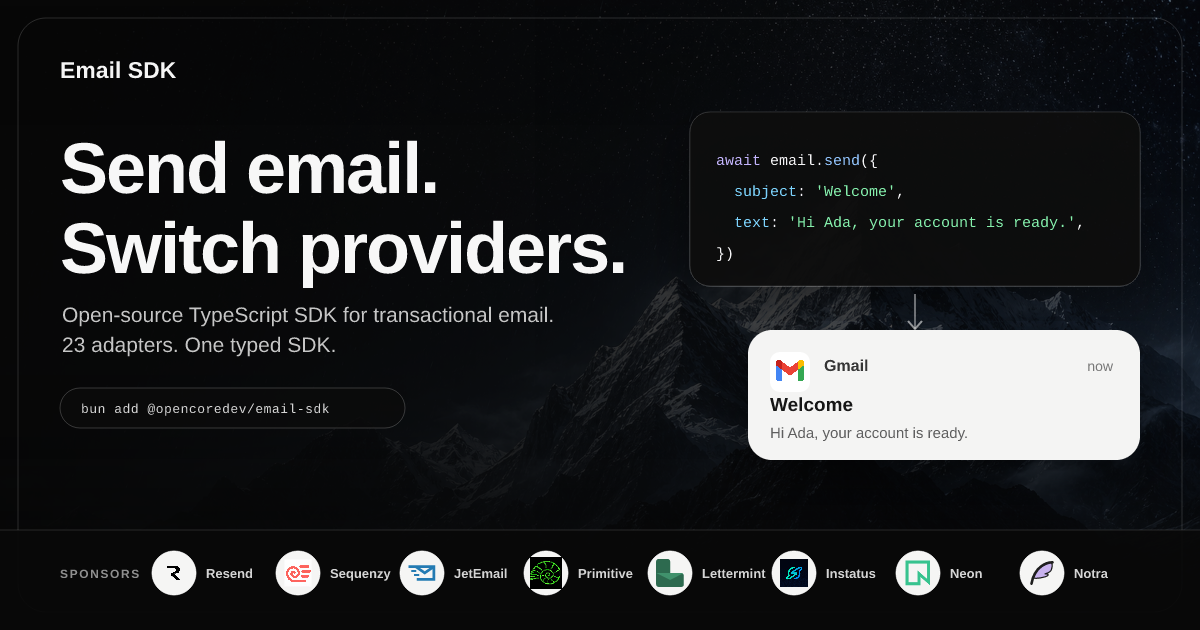
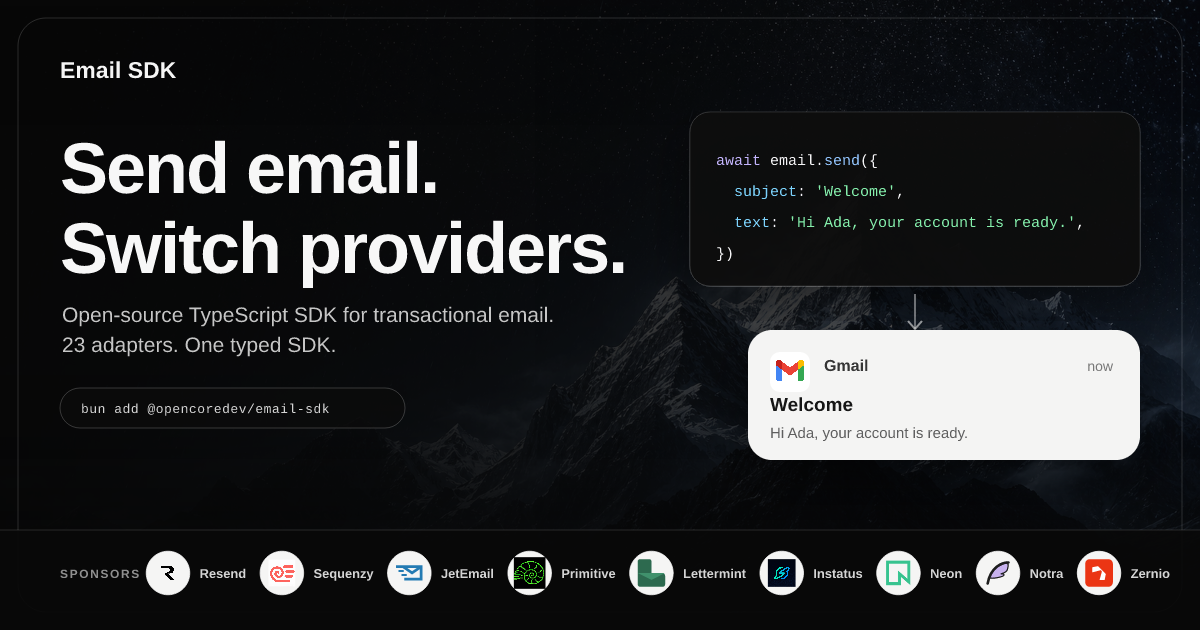
docs(site): add Zernio as a sponsor (#181)
Add the Zernio brand mark to the landing page sponsor grid, the OG image and the README top tier. Measure the OG sponsor labels with the real Liberation Sans Bold advance widths so the row scales to fit instead of overflowing.

Changed region(s): [[0.1233, 0.8746, 0.9867, 0.9651]]

diff --git a/apps/fumadocs/scripts/og/font-metrics.ts b/apps/fumadocs/scripts/og/font-metrics.ts
@@ -1,0 +1,102 @@
+// Real glyph advance widths from the TrueType fonts the OG image renders with.
+//
+// The sponsor row has to know how wide a label will be before resvg draws it.
+// A per-character estimate cannot do that: Liberation Sans Bold puts "W" at
+// 12.27px and "i" at 3.61px for the same 13px size, so an average either
+// overflows the canvas on wide names or wastes space on narrow ones. Reading
+// the font's own hmtx table gives the exact width the renderer will use.
+import { readFileSync } from "node:fs";
+
+type FontMetrics = {
+  /** Width of the text at the given font size, in px. */
+  measure: (text: string, fontSize: number) => number;
+};
+
+function readTables(view: DataView, bytes: Uint8Array): Record<string, number> {
+  const tableCount = view.getUint16(4);
+  const tables: Record<string, number> = {};
+  for (let index = 0; index < tableCount; index++) {
+    const record = 12 + index * 16;
+    const tag = String.fromCharCode(
+      bytes[record]!,
+      bytes[record + 1]!,
+      bytes[record + 2]!,
+      bytes[record + 3]!,
+    );
+    tables[tag] = view.getUint32(record + 8);
+  }
+  return tables;
+}
+
+/** Offset of the Unicode "cmap" subtable, which must be format 4. */
+function findUnicodeCmap(view: DataView, cmap: number): number {
+  const subtableCount = view.getUint16(cmap + 2);
+  let best = 0;
+  for (let index = 0; index < subtableCount; index++) {
+    const record = cmap + 4 + index * 8;
+    const platform = view.getUint16(record);
+    const encoding = view.getUint16(record + 2);
+    const isUnicode = platform === 0 || (platform === 3 && (encoding === 1 || encoding === 10));
+    if (isUnicode) best = cmap + view.getUint32(record + 4);
+  }
+  if (!best) throw new Error("font has no Unicode cmap subtable");
+  const format = view.getUint16(best);
+  if (format !== 4) throw new Error(`unsupported cmap format ${format}`);
+  return best;
+}
+
+export function loadFontMetrics(fontPath: string): FontMetrics {
+  const bytes = readFileSync(fontPath);
+  const view = new DataView(bytes.buffer, bytes.byteOffset, bytes.byteLength);
+  const tables = readTables(view, bytes);
+  const head = tables.head;
+  const hhea = tables.hhea;
+  const hmtx = tables.hmtx;
+  const cmap = tables.cmap;
+  if (!head || !hhea || !hmtx || !cmap) throw new Error(`font is missing tables: ${fontPath}`);
+
+  const unitsPerEm = view.getUint16(head + 18);
+  const hMetricCount = view.getUint16(hhea + 34);
+  const subtable = findUnicodeCmap(view, cmap);
+
+  const segmentCount = view.getUint16(subtable + 6) / 2;
+  const endCodes = subtable + 14;
+  const startCodes = endCodes + segmentCount * 2 + 2;
+  const deltas = startCodes + segmentCount * 2;
+  const rangeOffsets = deltas + segmentCount * 2;
+
+  function glyphId(codePoint: number): number {
+    for (let index = 0; index < segmentCount; index++) {
+      if (view.getUint16(endCodes + index * 2) < codePoint) continue;
+      const start = view.getUint16(startCodes + index * 2);
+      if (start > codePoint) return 0;
+      const delta = view.getInt16(deltas + index * 2);
+      const rangeOffset = view.getUint16(rangeOffsets + index * 2);
+      if (rangeOffset === 0) return (codePoint + delta) & 0xffff;
+      const glyph = view.getUint16(
+        rangeOffsets + index * 2 + rangeOffset + (codePoint - start) * 2,
+      );
+      return glyph === 0 ? 0 : (glyph + delta) & 0xffff;
+    }
+    return 0;
+  }
+
+  const advances = new Map<number, number>();
+  function advance(codePoint: number): number {
+    const cached = advances.get(codePoint);
+    if (cached !== undefined) return cached;
+    // Glyphs past the last hMetric all reuse that metric's advance.
+    const metric = Math.min(glyphId(codePoint), hMetricCount - 1);
+    const width = view.getUint16(hmtx! + metric * 4) / unitsPerEm;
+    advances.set(codePoint, width);
+    return width;
+  }
+
+  return {
+    measure(text, fontSize) {
+      let total = 0;
+      for (const character of text) total += advance(character.codePointAt(0)!);
+      return total * fontSize;
+    },
+  };
+}

diff --git a/apps/fumadocs/scripts/og/sponsor-row.ts b/apps/fumadocs/scripts/og/sponsor-row.ts
@@ -1,0 +1,89 @@
+// Geometry for the sponsor row at the foot of the OG image. It sits between
+// the "SPONSORS" label and the card border, so it cannot use a fixed step:
+// every new sponsor would push the last name off the canvas. Each slot is
+// measured from its own name, and the whole row scales down until it fits,
+// which keeps the logo, the label and the spacing in proportion.
+//
+// The layout lives apart from generate-og-image.ts so the fit can be tested
+// without rendering the image.
+import { join } from "node:path";
+
+import { loadFontMetrics } from "./font-metrics";
+
+export const sponsorRowGeometry = {
+  startX: 168,
+  rightEdge: 1170,
+  cy: 573,
+  radius: 22,
+  labelOffset: 32,
+  fontSize: 13,
+  /** Blank space kept between a label and the next logo. */
+  minClearance: 14,
+  /** Below this the labels get too small to read, so the build must fail. */
+  minScale: 0.7,
+} as const;
+
+// The row labels are drawn in Liberation Sans Bold. generate-og-image.ts hands
+// this same file to resvg, so the width measured here is the width the renderer
+// draws and the two cannot drift onto different fonts.
+export const sponsorLabelFontFile = join(import.meta.dirname, "fonts/LiberationSans-Bold.ttf");
+
+const labelFont = loadFontMetrics(sponsorLabelFontFile);
+
+export function measureSponsorLabel(
+  name: string,
+  fontSize: number = sponsorRowGeometry.fontSize,
+): number {
+  return labelFont.measure(name, fontSize);
+}
+
+export type SponsorRowSlot = {
+  name: string;
+  /** Centre of the logo circle. */
+  x: number;
+  radius: number;
+  /** Left edge of the label text. */
+  labelX: number;
+  /** Right edge of the label text. */
+  labelEndX: number;
+  fontSize: number;
+};
+
+export function sponsorRowLayout(names: readonly string[]): {
+  scale: number;
+  slots: SponsorRowSlot[];
+} {
+  const { startX, rightEdge, radius, labelOffset, fontSize, minClearance, minScale } =
+    sponsorRowGeometry;
+
+  const labelWidths = names.map((name) => measureSponsorLabel(name));
+  const slotWidths = labelWidths.map((label) => labelOffset + label);
+  const slotsWidth = slotWidths.reduce((total, slot) => total + slot, 0);
+  const gapCount = Math.max(0, names.length - 1);
+  // Widths that scale: the slots plus the part of each gap the logo covers.
+  const scalable = slotsWidth + gapCount * radius;
+  const available = rightEdge - startX - gapCount * minClearance;
+  const scale = Math.min(1, available / scalable);
+  if (scale < minScale) {
+    throw new Error(
+      `[og] sponsor row no longer fits: ${names.length} sponsors need more than ${rightEdge - startX}px`,
+    );
+  }
+
+  let x = startX;
+  const slots = names.map((name, index) => {
+    const previous = slotWidths[index - 1];
+    if (previous !== undefined) x += previous * scale + radius * scale + minClearance;
+    const labelX = x + labelOffset * scale;
+    return {
+      name,
+      x,
+      radius: radius * scale,
+      labelX,
+      labelEndX: labelX + labelWidths[index]! * scale,
+      fontSize: fontSize * scale,
+    };
+  });
+
+  return { scale, slots };
+}

diff --git a/apps/fumadocs/scripts/og/sponsor-row.test.ts b/apps/fumadocs/scripts/og/sponsor-row.test.ts
@@ -1,0 +1,59 @@
+import { describe, expect, test } from "bun:test";
+
+import { sponsors } from "../../src/lib/sponsors";
+import { measureSponsorLabel, sponsorRowGeometry, sponsorRowLayout } from "./sponsor-row";
+
+const names = sponsors.map((sponsor) => sponsor.name);
+
+describe("og sponsor row", () => {
+  test("measures labels with the font the row renders with", () => {
+    // Liberation Sans Bold advances at 13px. A per-character average cannot
+    // tell these apart, which is what let a label overrun its slot before.
+    expect(measureSponsorLabel("W")).toBeCloseTo(12.27, 1);
+    expect(measureSponsorLabel("i")).toBeCloseTo(3.61, 1);
+    expect(measureSponsorLabel("WWWW")).toBeGreaterThan(measureSponsorLabel("iiii") * 3);
+    expect(measureSponsorLabel("Neon", 26)).toBeCloseTo(measureSponsorLabel("Neon") * 2, 5);
+  });
+
+  test("keeps the current sponsor list inside the card border", () => {
+    const { slots } = sponsorRowLayout(names);
+    const last = slots.at(-1)!;
+
+    expect(slots).toHaveLength(sponsors.length);
+    expect(slots[0]!.x).toBe(sponsorRowGeometry.startX);
+    expect(last.labelEndX).toBeLessThanOrEqual(sponsorRowGeometry.rightEdge + 0.001);
+  });
+
+  test("never lets a label run into the next logo", () => {
+    const { slots } = sponsorRowLayout(names);
+
+    for (const [index, slot] of slots.entries()) {
+      const next = slots[index + 1];
+      if (!next) continue;
+      const clearance = next.x - next.radius - slot.labelEndX;
+      expect(clearance).toBeGreaterThanOrEqual(sponsorRowGeometry.minClearance - 0.001);
+    }
+  });
+
+  test("shrinks the row as sponsors are added instead of overflowing", () => {
+    const short = sponsorRowLayout(names.slice(0, 4));
+    const long = sponsorRowLayout([...names, "Widework"]);
+
+    expect(short.scale).toBe(1);
+    expect(long.scale).toBeLessThan(1);
+    expect(long.slots.at(-1)!.labelEndX).toBeLessThanOrEqual(sponsorRowGeometry.rightEdge + 0.001);
+  });
+
+  test("holds the fit for wide-glyph names, not just average ones", () => {
+    const wide = Array.from({ length: 8 }, () => "WWWWWWWW");
+    const { slots } = sponsorRowLayout(wide);
+
+    expect(slots.at(-1)!.labelEndX).toBeLessThanOrEqual(sponsorRowGeometry.rightEdge + 0.001);
+  });
+
+  test("fails the build rather than rendering unreadable labels", () => {
+    const tooMany = Array.from({ length: 24 }, (_, index) => `Sponsor ${index}`);
+
+    expect(() => sponsorRowLayout(tooMany)).toThrow(/sponsor row no longer fits/);
+  });
+});

diff --git a/apps/fumadocs/scripts/og/generate-og-image.ts b/apps/fumadocs/scripts/og/generate-og-image.ts
@@ -11,6 +11,7 @@ import { Resvg } from "@resvg/resvg-js";
 
 import { providers } from "../../src/lib/providers";
 import { sponsors } from "../../src/lib/sponsors";
+import { sponsorLabelFontFile, sponsorRowGeometry, sponsorRowLayout } from "./sponsor-row";
 
 const ogDir = import.meta.dirname;
 const publicDir = join(ogDir, "../../public");
@@ -119,20 +120,19 @@ const sponsorLogoSizes: Record<string, number> = {
 };
 
 function sponsorRowSvg(): string {
-  const startX = 174;
-  const step = 124;
-  const cy = 573;
+  const { cy } = sponsorRowGeometry;
+  const { scale, slots } = sponsorRowLayout(sponsors.map((sponsor) => sponsor.name));
 
-  return sponsors
-    .map((sponsor, index) => {
-      const x = startX + index * step;
-      const size = sponsorLogoSizes[sponsor.name] ?? 28;
+  return slots
+    .map((slot, index) => {
+      const sponsor = sponsors[index]!;
+      const size = (sponsorLogoSizes[sponsor.name] ?? 28) * scale;
       const logo = toDataUri(join(publicDir, sponsor.logo));
       return `
         <g>
-          <circle cx="${x}" cy="${cy}" r="22" fill="#f5f5f4" stroke="#ffffff" stroke-opacity="0.72"/>
-          <image href="${logo}" x="${x - size / 2}" y="${cy - size / 2}" width="${size}" height="${size}" preserveAspectRatio="xMidYMid meet"/>
-          <text x="${x + 32}" y="${cy + 5}" font-family="Liberation Sans" font-size="13" font-weight="bold" fill="#d4d4d4">${escapeXml(sponsor.name)}</text>
+          <circle cx="${slot.x}" cy="${cy}" r="${slot.radius}" fill="#f5f5f4" stroke="#ffffff" stroke-opacity="0.72"/>
+          <image href="${logo}" x="${slot.x - size / 2}" y="${cy - size / 2}" width="${size}" height="${size}" preserveAspectRatio="xMidYMid meet"/>
+          <text x="${slot.labelX}" y="${cy + 5}" font-family="Liberation Sans" font-size="${slot.fontSize}" font-weight="bold" fill="#d4d4d4">${escapeXml(sponsor.name)}</text>
         </g>`;
     })
     .join("\n");
@@ -189,7 +189,7 @@ function render(svg: string): Buffer {
     font: {
       fontFiles: [
         join(ogDir, "fonts/LiberationSans-Regular.ttf"),
-        join(ogDir, "fonts/LiberationSans-Bold.ttf"),
+        sponsorLabelFontFile,
         join(ogDir, "fonts/LiberationMono-Regular.ttf"),
         join(ogDir, "fonts/LiberationMono-Bold.ttf"),
       ],

diff --git a/apps/fumadocs/src/lib/sponsors.test.ts b/apps/fumadocs/src/lib/sponsors.test.ts
@@ -1,0 +1,35 @@
+import { existsSync } from "node:fs";
+import { join } from "node:path";
+
+import { describe, expect, test } from "bun:test";
+
+import { openSponsorSlots, sponsors } from "./sponsors";
+
+const publicDir = join(import.meta.dirname, "../../public");
+
+// The landing grid is five tiles wide, so the sponsors plus the open slots
+// must fill whole rows or the last row shows a single orphan tile.
+const landingColumns = 5;
+
+describe("sponsors", () => {
+  test("every logo is present under public/", () => {
+    for (const sponsor of sponsors) {
+      expect(existsSync(join(publicDir, sponsor.logo))).toBe(true);
+    }
+  });
+
+  test("names and links are unique", () => {
+    expect(new Set(sponsors.map((sponsor) => sponsor.name)).size).toBe(sponsors.length);
+    expect(new Set(sponsors.map((sponsor) => sponsor.href)).size).toBe(sponsors.length);
+  });
+
+  test("links are absolute https urls", () => {
+    for (const sponsor of sponsors) {
+      expect(sponsor.href).toStartWith("https://");
+    }
+  });
+
+  test("fills whole rows of the landing grid", () => {
+    expect((sponsors.length + openSponsorSlots.length) % landingColumns).toBe(0);
+  });
+});

diff --git a/apps/fumadocs/src/lib/sponsors.ts b/apps/fumadocs/src/lib/sponsors.ts
@@ -52,7 +52,14 @@ export const sponsors: readonly Sponsor[] = [
     href: "https://www.usenotra.com",
     logo: "/landing/sponsors/notra.svg",
   },
+  {
+    name: "Zernio",
+    href: "https://zernio.com",
+    logo: "/landing/sponsors/zernio.svg",
+  },
 ];
 
-export const openSponsorSlots = [1, 2] as const;
+// Keep the sponsor count plus the open slots a multiple of the five-column
+// landing grid, so the last row stays full instead of leaving one orphan tile.
+export const openSponsorSlots = [1] as const;
 export const sponsorHref = "https://github.com/sponsors/opencoredev";

diff --git a/apps/fumadocs/src/styles/app.css b/apps/fumadocs/src/styles/app.css
@@ -642,7 +642,8 @@ html > body[data-scroll-locked] {
 }
 
 .landing-sponsor[data-sponsor="sequenzy"] .landing-sponsor-mark img,
-.landing-sponsor[data-sponsor="lettermint"] .landing-sponsor-mark img {
+.landing-sponsor[data-sponsor="lettermint"] .landing-sponsor-mark img,
+.landing-sponsor[data-sponsor="zernio"] .landing-sponsor-mark img {
   padding: 0;
 }
 

diff --git a/README.md b/README.md
@@ -101,9 +101,9 @@ Email SDK is supported by companies that help keep provider integrations practic
 <p align="center">
   <a href="https://github.com/sponsors/opencoredev">
     <picture>
-      <source media="(prefers-color-scheme: dark)" srcset="https://shieldcn.dev/sponsors/opencoredev.svg?special=resend,instatushq,primitivedotdev,lettermint&title=false&mode=dark&preset=surface" />
-      <source media="(prefers-color-scheme: light)" srcset="https://shieldcn.dev/sponsors/opencoredev.svg?special=resend,instatushq,primitivedotdev,lettermint&title=false&mode=light&preset=surface" />
-      <img alt="Email SDK sponsors" src="https://shieldcn.dev/sponsors/opencoredev.svg?special=resend,instatushq,primitivedotdev,lettermint&title=false&mode=dark&preset=surface" width="820" />
+      <source media="(prefers-color-scheme: dark)" srcset="https://shieldcn.dev/sponsors/opencoredev.svg?special=resend,instatushq,primitivedotdev,lettermint,zernio-dev&title=false&mode=dark&preset=surface" />
+      <source media="(prefers-color-scheme: light)" srcset="https://shieldcn.dev/sponsors/opencoredev.svg?special=resend,instatushq,primitivedotdev,lettermint,zernio-dev&title=false&mode=light&preset=surface" />
+      <img alt="Email SDK sponsors" src="https://shieldcn.dev/sponsors/opencoredev.svg?special=resend,instatushq,primitivedotdev,lettermint,zernio-dev&title=false&mode=dark&preset=surface" width="820" />
     </picture>
   </a>
 </p>
